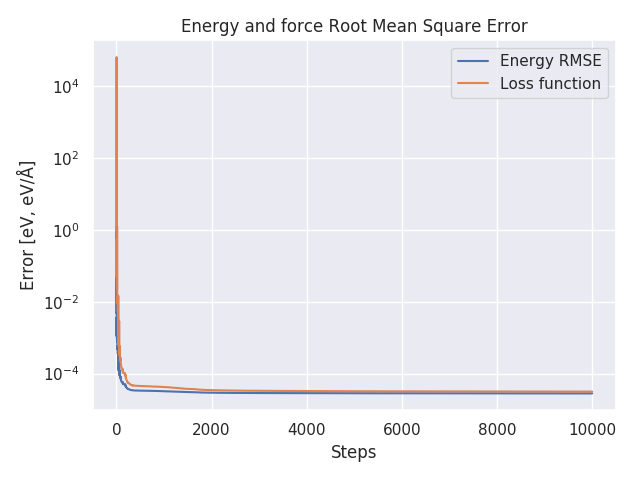
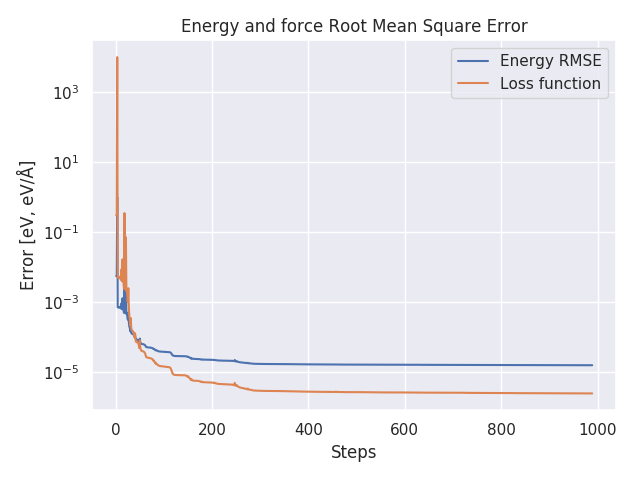
Commit

diff --git a/lennard-jones/main.py b/lennard-jones/main.py
@@ -23,20 +23,21 @@ if __name__ == "__main__":
     msd_file = "msd_{}.png".format(system)
     energy_file = "energy_{}.png".format(system)
 
-    n_train = int(4e5)
-    size = (3, 3, 3)
+    n_train = int(1e5)
+    size = (5, 5, 5)
     save_interval = 10
-    temp = 350
+    temp = 300
 
     convergence = {"energy_rmse": 1e-6, "max_steps": int(1e4)}
     cutoff = 4.0
     Gs = None
 
-    anl = Analyzer(save_interval=save_interval)
-    plt = Plotter()
     trn = Trainer(n_train=n_train, size=size, save_interval=save_interval, temp=temp)
     if not os.path.exists("amp.amp"):
         trn.train_amp(calc, system, convergence=convergence, cutoff=cutoff, Gs=Gs)
+
+    anl = Analyzer(save_interval=save_interval)
+    plt = Plotter()
     plt.plot_rmse(log_file, conv_file)
     trn.test_amp(calc, system, test_filename, amp_test_filename)
 

diff --git a/emt-copper/main.py b/emt-copper/main.py
@@ -22,12 +22,12 @@ if __name__ == "__main__":
     energy_file = "energy_{}.png".format(system)
 
     n_train = int(1e5)
-    size = (3, 3, 3)
+    size = (5, 5, 5)
     save_interval = 10
-    temp = 500
+    temp = 300
 
     convergence = {"energy_rmse": 1e-6, "max_steps": int(1e4)}
-    cutoff = 6.5
+    cutoff = 6.0
     Gs = None
 
     anl = Analyzer(save_interval=save_interval)

diff --git a/lennard-jones/twobody.py b/lennard-jones/twobody.py
@@ -17,7 +17,7 @@ calc = LennardJones(sigma=sigma, epsilon=epsilon)
 atoms = Atoms([Atom("Ar", (0, 0, 0)), Atom("Ar", (0, 0, 0))])
 atoms.set_calculator(calc)
 
-dist = np.linspace(0.95, 3.0, 1000)*sigma
+dist = np.linspace(0.95, 3.0, 1000) * sigma
 pot = np.zeros_like(dist)
 
 for i, r in enumerate(dist):
